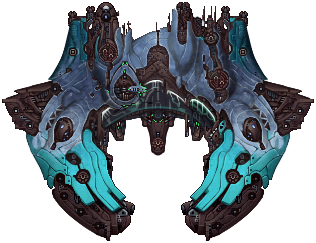
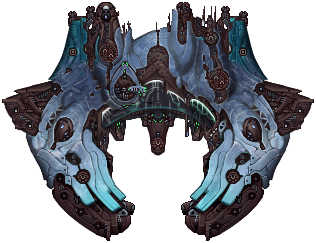
Small fixes, Selkie resprite, version file update.

diff --git a/src/data/shipsystems/scripts/MS_drivechargerstats.java b/src/data/shipsystems/scripts/MS_drivechargerstats.java
@@ -21,7 +21,7 @@ public class MS_drivechargerstats extends BaseShipSystemScript {
         
         if(!Global.getCombatEngine().isPaused()){
             ShipAPI ship = (ShipAPI) stats.getEntity();
-            if(vel!=new Vector2f() || effectLevel!=0){
+            if(!vel.equals(new Vector2f()) || effectLevel!=0){
                 //acceleration change of the ship
                 Vector2f offset=new Vector2f();
                 Vector2f.sub(vel, ship.getVelocity(), offset);

diff --git a/src/data/scripts/ai/MS_ApisAI.java b/src/data/scripts/ai/MS_ApisAI.java
@@ -15,7 +15,7 @@ import org.lazywizard.lazylib.VectorUtils;
 import org.lazywizard.lazylib.combat.AIUtils;
 import org.lazywizard.lazylib.combat.CombatUtils;
 import org.lwjgl.util.vector.Vector2f;
-import data.scripts.util.MagicTargeting;
+import org.magiclib.util.MagicTargeting;
 
 public class MS_ApisAI implements MissileAIPlugin, GuidedMissileAI {
     

diff --git a/README.md b/README.md
@@ -1,1 +1,3 @@
 # Shadowyards
+
+Authorized bootleg by Wisp. Thank you to MShadowy!
